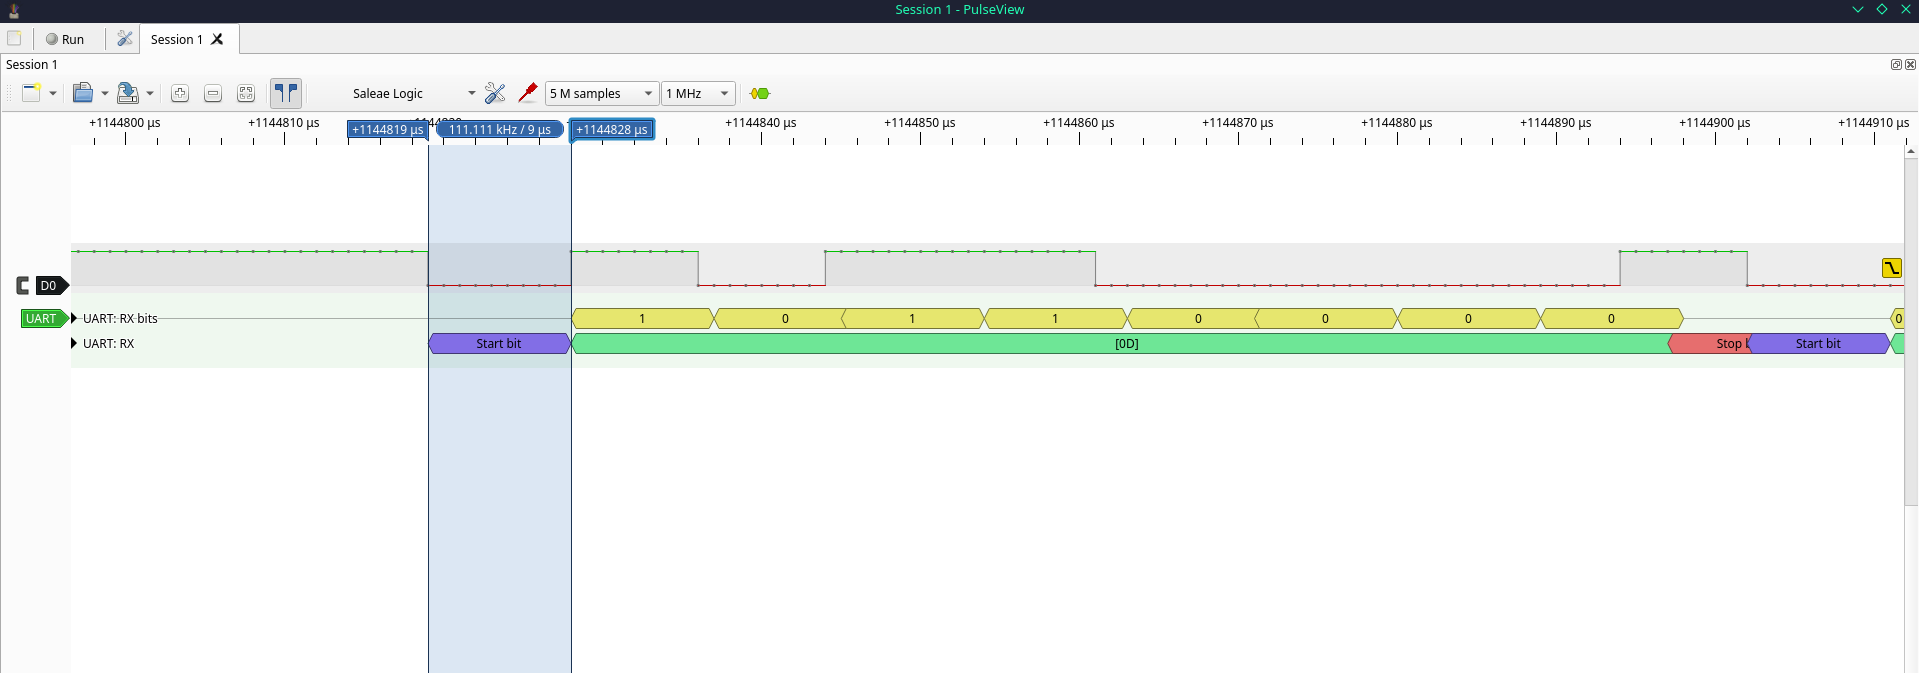
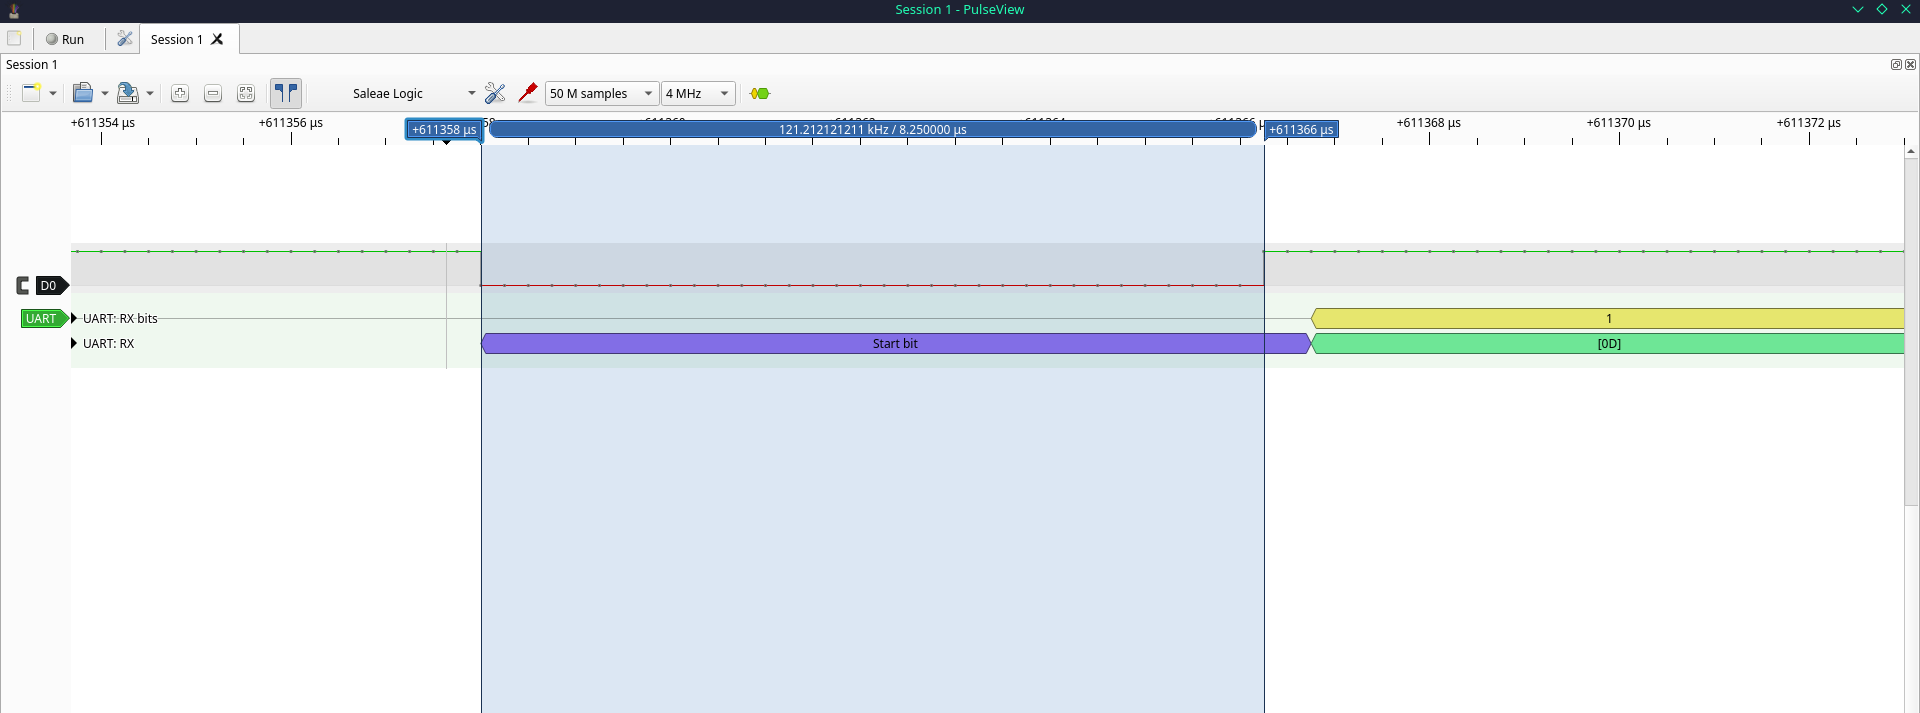
Update README

diff --git a/README.md b/README.md
@@ -2,8 +2,13 @@
 # TP-Link TL-WR841N Router (v9.2)
 
 
-This is a write-up of my first hardware hacking project, targeting the TP-Link TL-WR841N (v9.2). I chose this router specifically because of the surplus of documentation on it and figured it would make a great first hardware hacking project. Let's get started!
+This is a write-up of my first hardware hacking project, targeting the TP-Link TL-WR841N (v9.2). I chose this router specifically because of the surplus of documentation on it and figured it would make a great first hardware hacking project.
 
+My goals for this project: 
+1) Identify the hardware and locate the debug interface 
+2) Capture and read the boot log over UART 
+3) Get a root shell
+4) Dump the SPI flash and analyze the firmware
 ### Tools Used:
 * Digital Multimeter
 * Soldering Kit
@@ -39,37 +44,35 @@ With the board out, I can see the major components and what else I'm working wit
 
 *Closeups of main chip and SDRAM*
 
-There's an unpopulated UART debugging interface at J3. There's no pin labels on the silkscreen like older versions of this router, so I'll solder on pin headers to make measuring via multimeter more convenient.
+There's an unpopulated UART debugging interface at J3. There are no pin labels on the silkscreen like older versions of this router, so I'll solder on pin headers to make measuring via multimeter more convenient.
 
 | ![J3 Closeup](images/J3_closeup.JPG) | ![UART Headers](images/UART_headers.JPG) |
 | :----------------------------------: | :--------------------------------------: |
 
-*J3 pre and post surgery*
+*UART port at J3, pre and post surgery*
 
-My measurements suggest that the pins from left-to-right are VCC, GND, RX, and TX. 
-The VCC supplies a constant 3.3V. 
-Second pin tested as ground through continuity. 
-Third pin read a steady 0V. A floating pin with no internal pull-up usually wanders a bit, so a clean 0V suggests a pull-down resistor.
-The final pin I measured it at 2.6V, normal reading during boot for TX transmitting at 115200 baud.
+My measurements suggest that the pins from left-to-right are VCC, GND, RX, and TX:
+* VCC supplies a constant 3.3V
+* GND through continuity
+* RX: steady 0V. A floating pin usually wanders, so a clean 0V suggests a pull-down resistor
+* TX: 2.6V average on boot (I explain below)
 
-The TL-WR841N is incredibly well documented at 115200 baud, but for certainty (and fun), I'll hook up a logic analyzer to TX and take a look with PulseView.
+The TL-WR841N is incredibly well documented at 115,200 baud, but for certainty (and fun), I'll hook up a logic analyzer to TX and take a look with PulseView.
 
-*(Note: In PulseView, I left the decoder channel label set to its default RX name, though it is probing the router's TX pin)*
+## Pulseview
+
+*(Note: In PulseView, I left the decoder channel label set to its default RX name, but it is probing the router's TX pin)*
 
 ![PulseView Overview](images/pulseview_overview.png)
 
-Okay... the beginning of this view explains the 2.6V reading from the multimeter. Looks like the TX line idles at high 3.3V and fires bursts of 0V pulses as the bootloader gets started. The multimeter averages the two out. Let's try to calculate baud rate now by zooming in a bit.
+Looks like the line idles high at 3.3 V and sends bursts of 0 V pulses during boot, which is consistent with the 2.6 V average my multimeter showed me.
 
-![Pulseview Start Bit Timing](/images/pulseview_zoomed.png)
+And the console decodes cleanly at 115,200. To check the rate, I measured the start-bit width with the cursors and the spacing between back-to-back frames at 1, 2 and 4 MHz capture rates. The 4 MHz results (8.25 µs start bit) suggest an actual rate of around 120,000 baud, about 4% faster than normal. I haven’t determined whether that comes from the chip's clock or my analyzer’s clock. Regardless, the UART receiver tolerates this much error and still decodes.
 
-Using PulseView's timing cursors across the start bit measures a bit width of $9\  \mu\text{s}$. A true 115200 baud bit takes $8.68 \  \mu\text{s}$: 
-
-$$\frac{1}{115200} \approx 8.68 \times 10^{-6}\text{ s}$$
+![Pulseview Start Bit Timing](images/pulseview_zoomed.png)
 
 
-However, a 1MHz clock can only read in whole $1\  \mu\text{s}$ steps, so the start bit spanned 9 sample dots (or $\approx 111.1\text{ kHz}$). 
-
-With the baud rate confirmed, I set PulseView's UART decoder to ASCII mode and I exported the decoder annotations, resampling at 2 MHz (where the start bit now spans 17 samples):
+I set PulseView's UART decoder to ASCII mode and I exported the decoder annotations from the **2MHz** capture:
 
 ```text
 4537-4554 UART: RX: Start bit
@@ -87,9 +90,9 @@ With the baud rate confirmed, I set PulseView's UART decoder to ASCII mode and I
 2281769-2281786 UART: RX: Stop bit
 ```
 
-(These are just 12 lines from a sample that had 3702... you can [view the full sample here](UART.txt))
+*(These are just 12 lines from a sample that had 3702 total lines- you can [see the full sample here](UART.txt))*
 
-The first few bytes (`[01]`, `[D4]`) are garbage as the board powers up. Real text starts later at around 1.14 seconds (`sample 2281630`), starting with `U`.
+The first few bytes (`[01]`, `[D4]`) are probably just noise as the board powers up. Then follows a few more garbage bytes and a double carriage-return + line-feed (`[0D] [0A]`), before actual text appears, at around 1.14 seconds (`sample 2281630`), starting with the first `U` of `U-Boot`.
 
 To strip out the `Start bit`/`Stop bit` lines and sample timestamps, I ran this single line in my Linux terminal:
 
@@ -154,15 +157,15 @@ Autobooting in 1 seconds
 
 From this capture, I learn several key things before even opening a serial terminal:
 
-* The router runs U-Boot 1.1.4, and `ap143` ("Honey Bee") identifies the Qualcomm Atheros reference board and QCA9533 chip family
+* The router runs U-Boot 1.1.4, and `ap143` is the Qualcomm Atheros reference board and "Honey Bee" is the codename for the chip family
 * U-Boot reports `DRAM: 32 MB` and `Flash: 4 MB`, which corresponds to the hardware I identified earlier (`0xc2` is Macronix's manufacturer code)
-* U-Boot gives a 1-second interruption window (`Autobooting in 1 seconds`) before booting the Linux kernel located at memory address **`0x9f020000`**
-* The Atheros misspells `STATUS` as `STAUS` per its source code (lol)
+* U-Boot suggests a 1-second interruption window (`Autobooting in 1 seconds`) before booting the Linux kernel image located at flash address **`0x9f020000`**
+* The Atheros misspells `STATUS` as `STAUS` (lol)
 
 ### Current Status & Next Steps
-* **Next up:** Hook up the USB-to-UART adapter to verify the `RX` pin with live keystrokes, explore the root shell, map the flash partitions, and dump the firmware.
+* Goals 1 and 2 are done, working on 3 (gaining root shell)
 
 ### References & Inspiration
 * [OpenWrt TP-Link TL-WR841N Wiki](https://openwrt.org/toh/tp-link/tl-wr841nd)
-* VoidStar Security Hardware Hacking Roadmap
-* Past WR841N hardware research by Zero Day Initiative (ZDI) & write-ups I found by adamhlt and JulianOzelRose
+* [VoidStar Security Hardware Hacking Roadmap](https://voidstarsec.com/roadmap/)
+* Past WR841N hardware research by [Zero Day Initiative (ZDI)](https://www.zerodayinitiative.com/blog/2019/9/2/mindshare-hardware-reversing-with-the-tp-link-tl-wr841n-router) & excellent write-ups by [adamhlt](https://github.com/adamhlt/TL-WR841N) and [JulianOzelRose](https://github.com/JulianOzelRose/TL-WR841N-v14)
